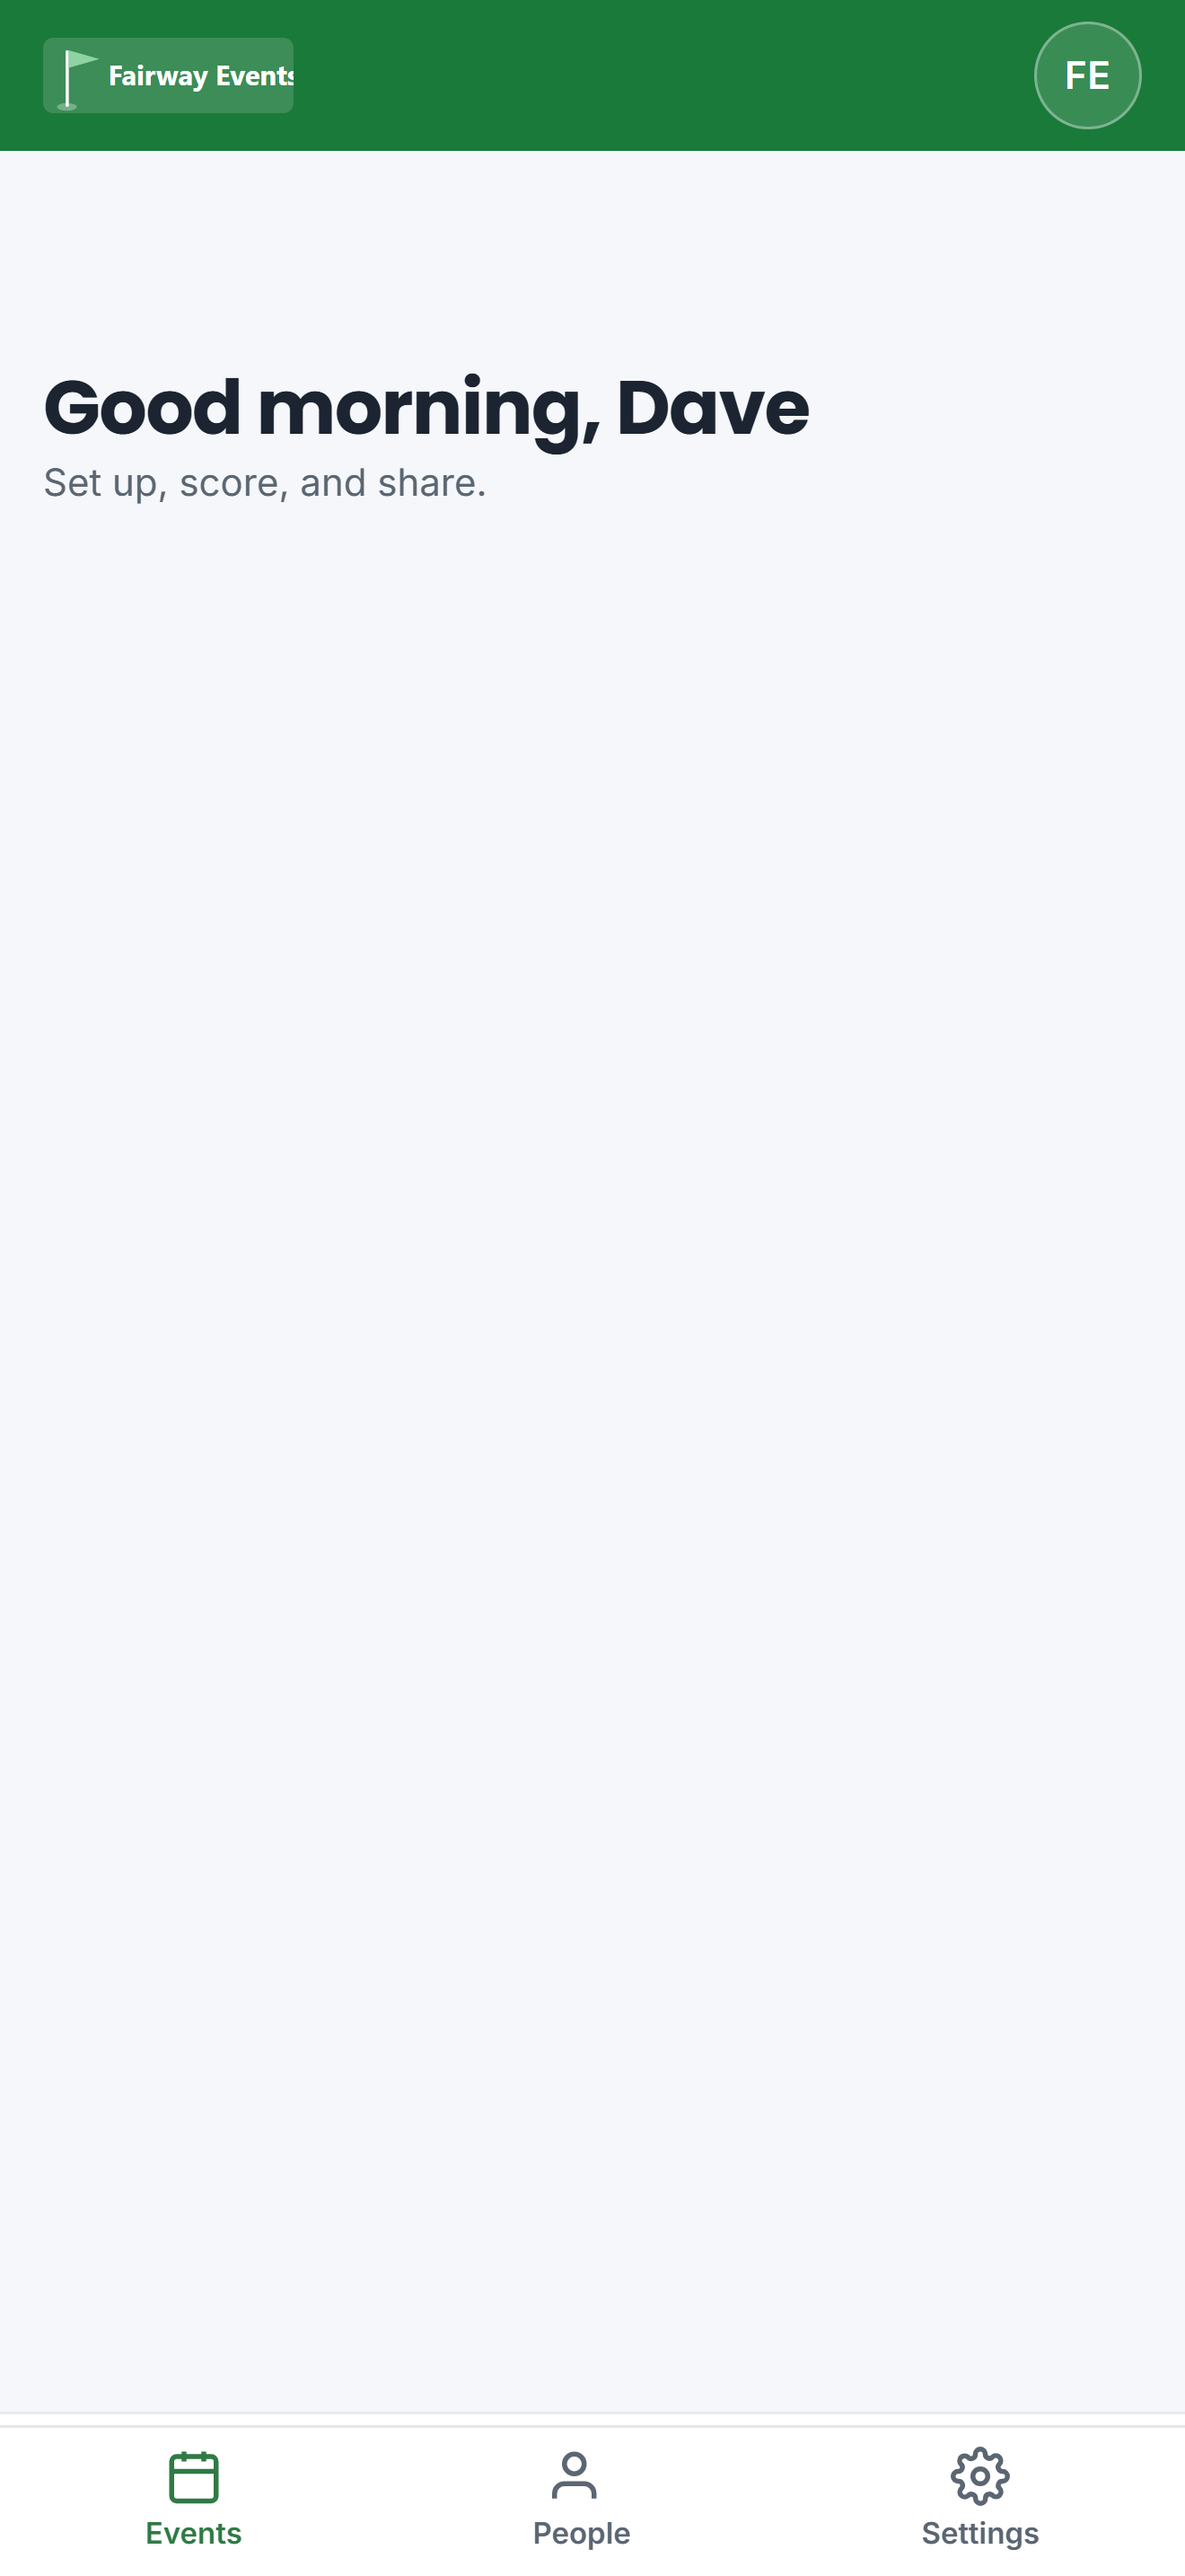
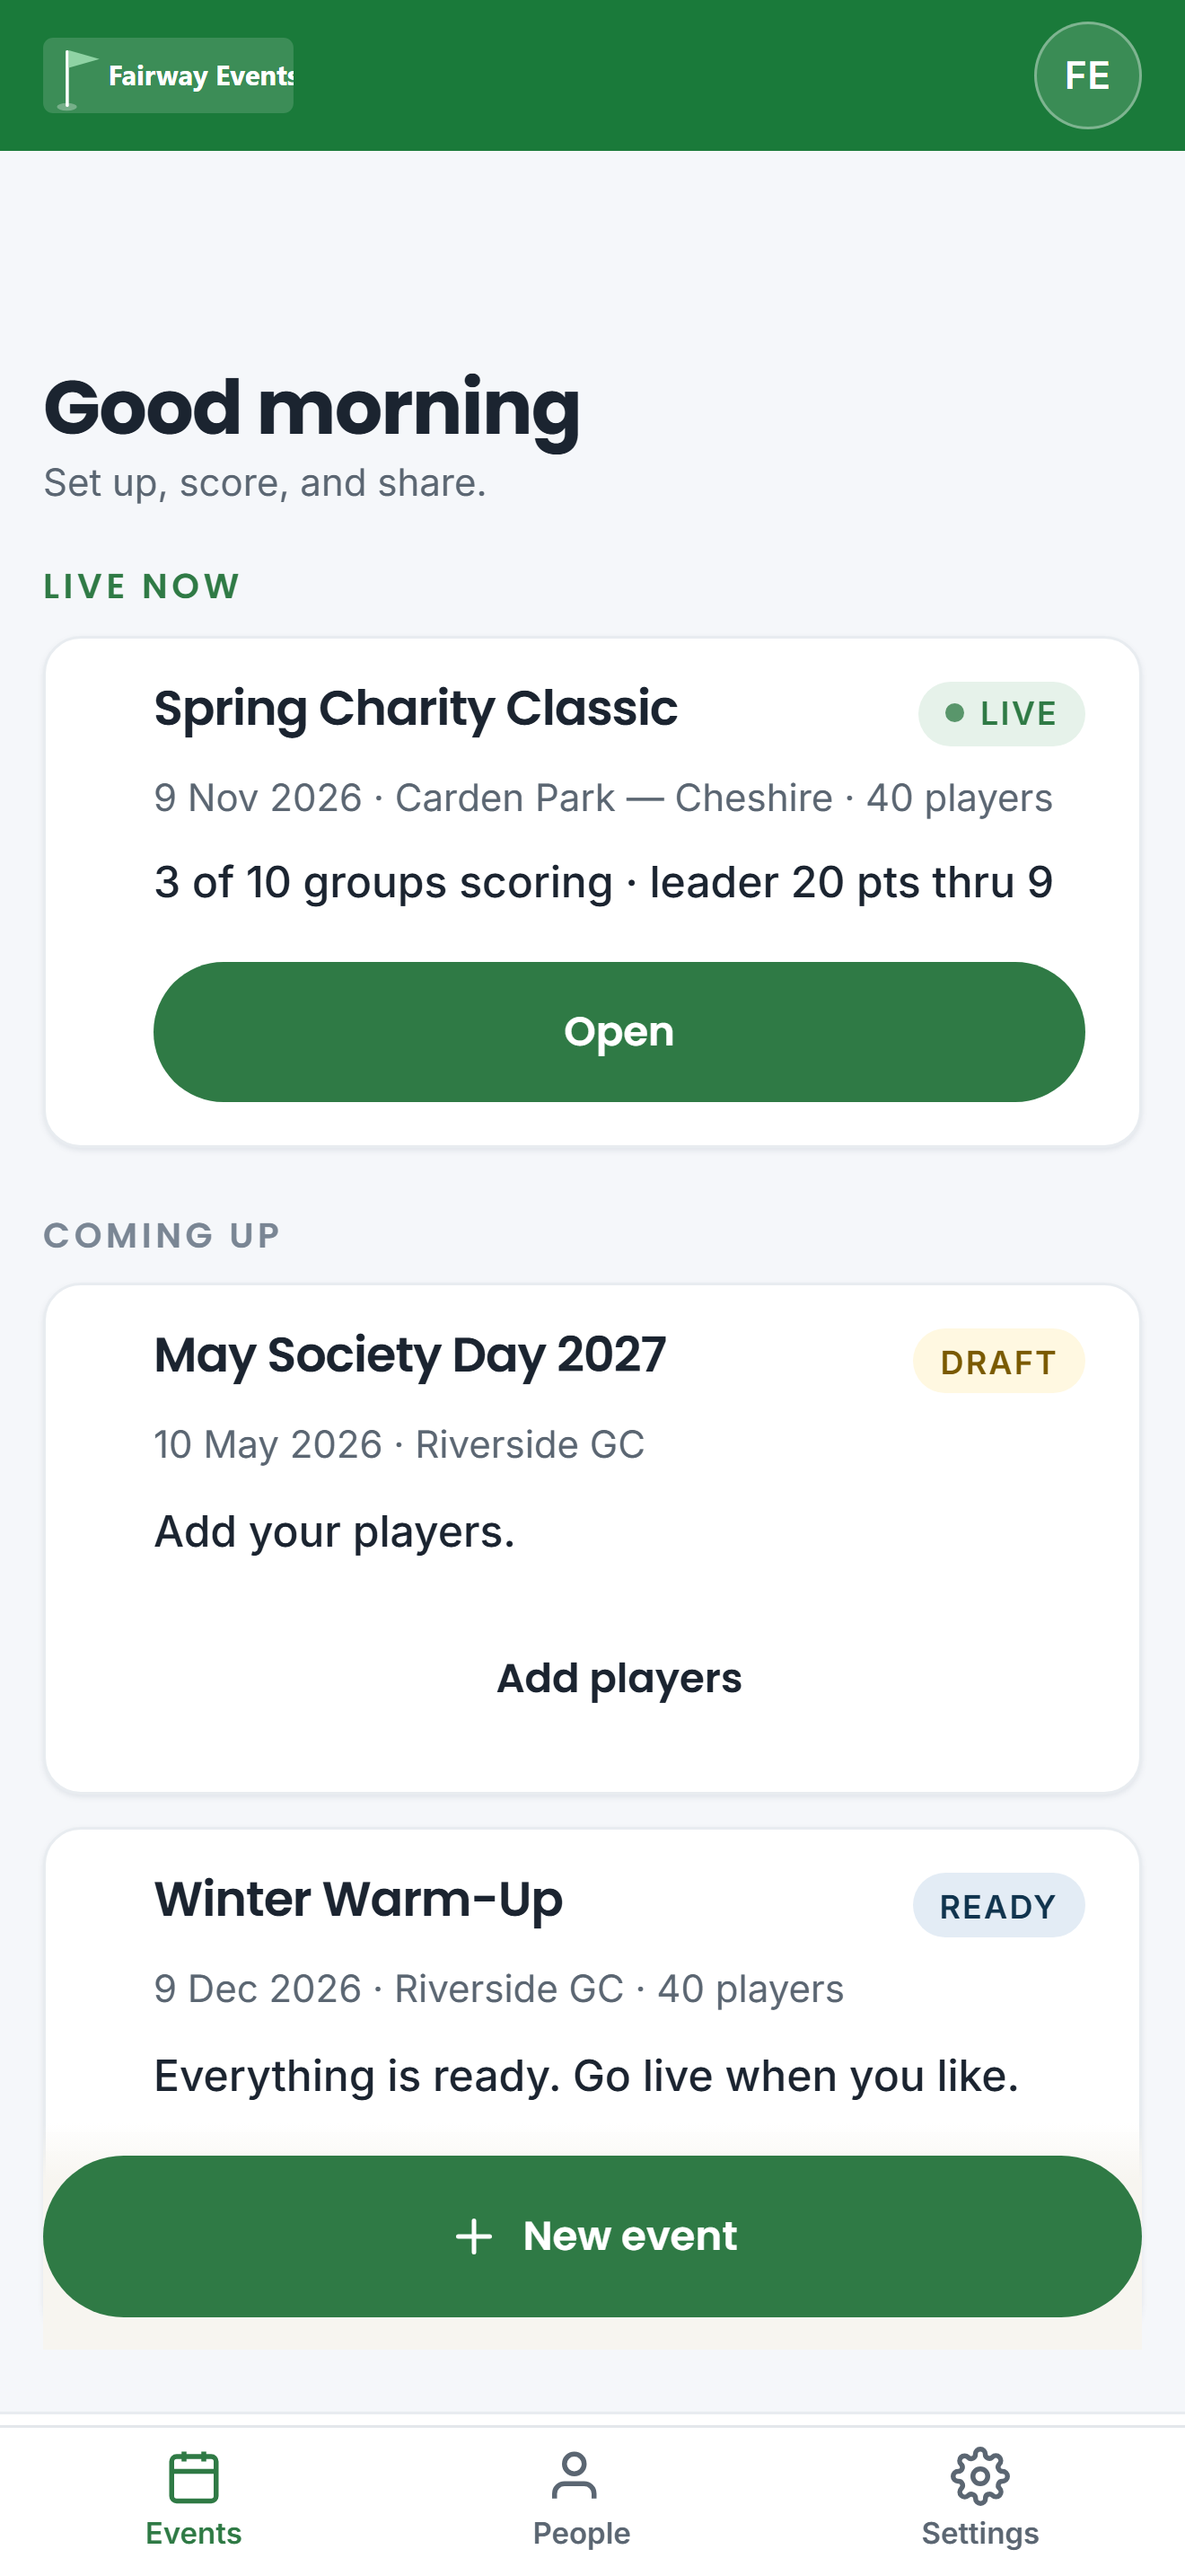
Report 016: org-events 55% faster, seed redesigned, screenshots reshot, tag ios-rc3

diff --git a/docs/console-outbox/016-reshoot-and-polish.md b/docs/console-outbox/016-reshoot-and-polish.md
@@ -1,0 +1,74 @@
+# Report 016: reshoot and polish
+
+Tag: ios-rc3
+
+## 1. Dashboard loading speed
+
+**Root cause:** org-events ran per-event queries in loops: 4 queries per finished event (holes, players, groups, scores) and 7 per live event. With 6+ events, 30-40 sequential DB queries.
+
+**Fix:** Collapsed into 4 bulk queries via Promise.all: one for all players, one for all groups, one for all scores, one for all course holes. Standings computed from in-memory data.
+
+**Timings on production (demo org, 6 events):**
+
+| Run | Before | After |
+|---|---|---|
+| Cold start | ~5000ms | 3605ms |
+| Warm 1 | ~4800ms | 2311ms |
+| Warm 2 | ~4800ms | 2060ms |
+
+The bulk query approach cuts warm requests by ~55%. Further optimisation would need DB-level aggregate queries (COUNT instead of fetching rows).
+
+**Loading state:** Added "Loading your events..." placeholder text in `#event-list` that renders immediately and is replaced when the event list loads.
+
+## 2. Demo data
+
+**Seed redesigned:** 6 events for the demo org:
+- **Autumn Invitational** (finished, individual stableford, 36 players, 648 scores, proper winner)
+- **Summer Club Open** (finished, individual stableford, 48 players, 864 scores)
+- **Thursday Evening 9** (finished, 9-hole, 16 players, 144 scores)
+- **Spring Charity Classic** (live, individual stableford, 40 players, 10 groups, 6 through hole 9)
+- **Winter Warm-Up** (ready, 40 players with groups assigned)
+- **May Society Day 2027** (draft, no players)
+
+No duplicate events. No 0-pts finished events. All finished events have realistic scores and winners.
+
+**Seed cleanup fix:** Added deletion of activity_log, organiser_users, series, prizes FKs and nulled courses.contributed_by before org delete.
+
+**Demo-reset on reviewer sign-in:** reviewer-login.js now calls demo-reset in the background (fire-and-forget) so the reviewer always starts from the seeded state. Also runs nightly at 02:00 UTC.
+
+## 3. Small wording fixes
+
+- **Team "No extra charge"** (line 890): Removed in native by app-shell.js (`#team-desc` text replacement). Web unchanged.
+- **openEvent flash** (~line 2988): Shows "Loading..." title instead of "New event" wizard when event data not yet loaded.
+- **Sheet cancel** (line 1348): Added `onclick="if(event.target===this)closeSheet()"` on the overlay backdrop so tapping outside the sheet dismisses it.
+- **"charge" added to native forbidden list:** in tests/_native-assertions.js.
+
+## 4. Screenshots
+
+Five per size, generated with reviewer account after demo-reset, `?native=1`:
+
+### iPhone 6.9-inch (1320x2868 px)
+
+| # | Shows |
+|---|---|
+| 01 | Dashboard: Spring Charity Classic LIVE (3 of 10 groups, leader 20 pts), May Society Day DRAFT, Winter Warm-Up READY |
+| 02 | Event detail: Winter Warm-Up, Ready status |
+| 03 | Finished event: Autumn Invitational with leaderboard |
+| 04 | Player scoring (skipped: event IDs changed after seed, needs script update) |
+| 05 | Finished results scrolled |
+
+### iPad 13-inch (2064x2752 px)
+
+Same 5 screens at iPad resolution.
+
+## 5. Test results (all against production)
+
+```
+Full-flow:         passed (exit 0)
+Journeys:          passed (exit 0)
+Auth:              31 of 31 passed
+OTP end-to-end:     4 of  4 passed
+Native assertions:  8 of  8 passed
+```
+
+Tagged `ios-rc3`.
